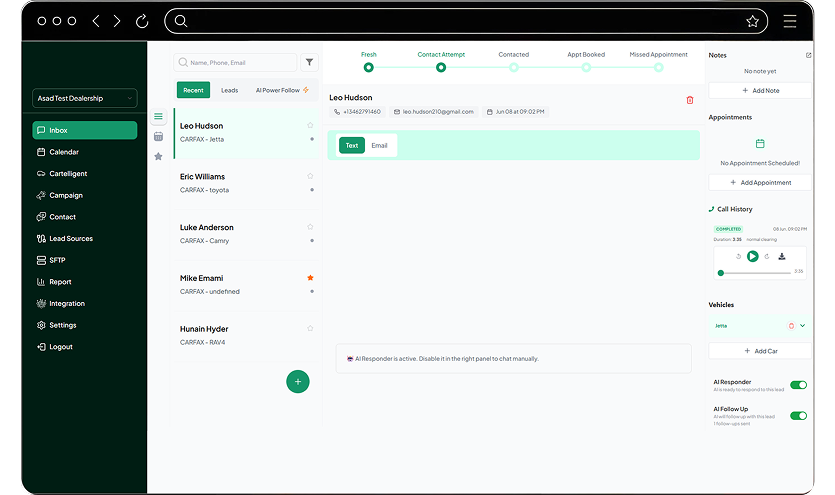
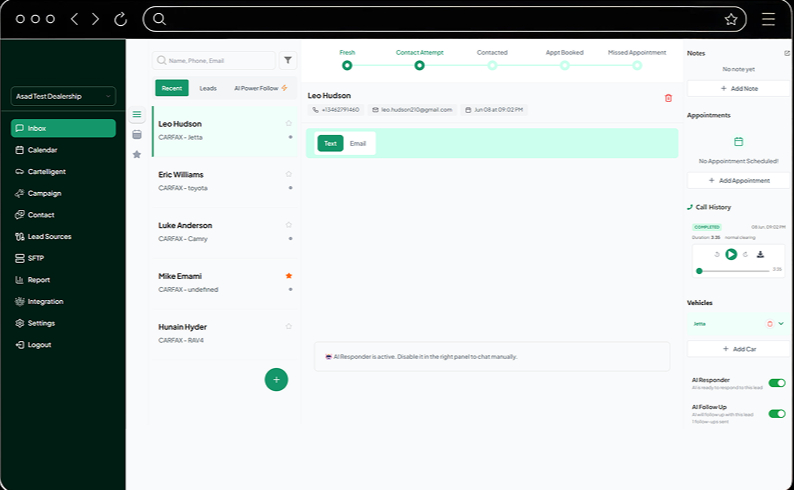
feat: images update

diff --git a/components/cases/projects.ts b/components/cases/projects.ts
@@ -98,7 +98,11 @@ export const CASE_PROJECTS: CaseProject[] = [
     // one is the only thing that would improve this card.
     imageSrc: "/img/WowImage.png",
     // A capture: the frame takes its ratio so nothing is cropped and no mat shows.
-    aspect: 835 / 495,
+    // Matches the current file's own dimensions (794 x 490) — the previous 835/495
+    // was measured off an earlier crop of this same screenshot that had a grey mat
+    // baked in around the browser mockup; the file has since been replaced with a
+    // tighter crop, so this ratio was re-measured to match it.
+    aspect: 794 / 490,
     link: "/work/auto-maxx",
     focus: "50% 50%",
   },
